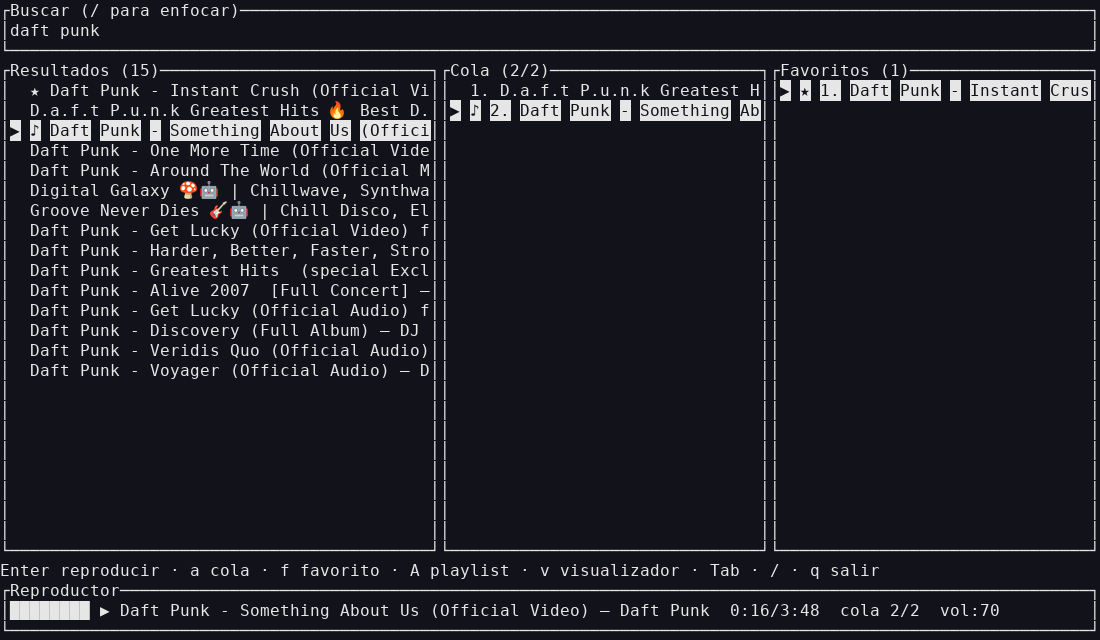
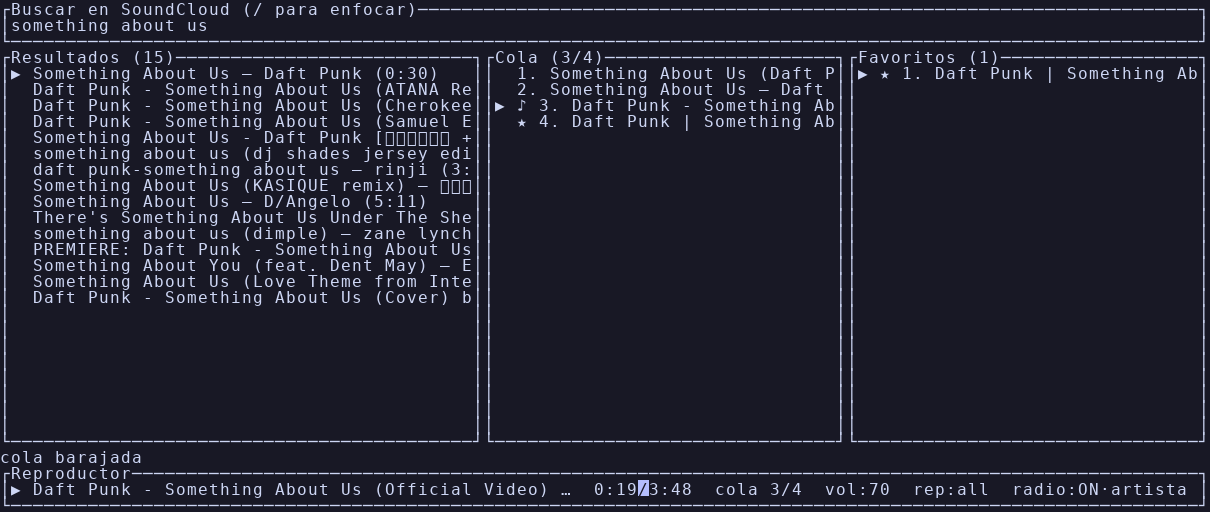
docs: README con ASCII art y demo/screenshot actualizados
- Encabezado con ASCII art (sin emojis), tagline y badge de licencia
- Nueva sección Características con lo destacable (radio con prefetch,
  repetición/seek, playlists, historial, ayuda contextual, caché)
- demo.gif regrabado: reproduce de verdad (progreso en la barra) y
  muestra PgUp/PgDn, repetición, shuffle, ayuda (?) y playlists
- screenshot.png regenerado desde la propia grabación
- record_demo.py: reproduce la primera pista (g+Enter), guarda el
  screenshot y corrige el retorno de foco a Resultados con Esc

Changed region(s): [[0.0, 0.0, 1.0, 1.0]]

diff --git a/scripts/record_demo.py b/scripts/record_demo.py
@@ -210,7 +210,7 @@ def _run_demo():
     hold(stream, screen, renderer, frames, 1.0)
 
     # 2. Type search query
-    type_text(child, stream, screen, renderer, frames, "daft punk", char_delay=0.15)
+    type_text(child, stream, screen, renderer, frames, "something about us", char_delay=0.15)
     hold(stream, screen, renderer, frames, 0.5)
 
     # 3. Press Enter to search
@@ -235,6 +235,13 @@ def _run_demo():
     send_keys(child, stream, screen, renderer, frames, "f", settle=0.8)
     hold(stream, screen, renderer, frames, 0.5)
 
+    # 6.5. Play the first result (g + Enter) — la resolución del stream
+    # tarda unos segundos; la barra muestra el progreso real.
+    send_keys(child, stream, screen, renderer, frames, "g", settle=0.3)
+    send_keys(child, stream, screen, renderer, frames, "\r", settle=1.5)
+    feed_and_capture(child, stream, screen, renderer, frames, 8.0)
+    hold(stream, screen, renderer, frames, 1.5)
+
     # 7. Switch provider to SoundCloud (m)
     send_keys(child, stream, screen, renderer, frames, "m", settle=0.5)
     hold(stream, screen, renderer, frames, 1.2)
@@ -249,6 +256,12 @@ def _run_demo():
     send_keys(child, stream, screen, renderer, frames, "a", settle=0.8)
     hold(stream, screen, renderer, frames, 0.5)
 
+    # 9.5. Page navigation in results (PgDn / PgUp)
+    send_keys(child, stream, screen, renderer, frames, "\x1b[6~", settle=0.5)
+    hold(stream, screen, renderer, frames, 0.6)
+    send_keys(child, stream, screen, renderer, frames, "\x1b[5~", settle=0.5)
+    hold(stream, screen, renderer, frames, 0.6)
+
     # 10. Toggle radio mode (r)
     send_keys(child, stream, screen, renderer, frames, "r", settle=0.5)
     hold(stream, screen, renderer, frames, 1.2)
@@ -261,20 +274,36 @@ def _run_demo():
     send_keys(child, stream, screen, renderer, frames, "\t", settle=0.5)
     hold(stream, screen, renderer, frames, 1.5)
 
-    # 13. Switch back to results (Tab)
-    send_keys(child, stream, screen, renderer, frames, "\t", settle=0.5)
+    # 13. Volver a resultados (Esc desde Favoritos va a Resultados)
+    send_keys(child, stream, screen, renderer, frames, "\x1b", settle=0.5)
     hold(stream, screen, renderer, frames, 0.5)
 
-    # 14. Try to play (Enter) — shows player bar even if mpv fails
-    send_keys(child, stream, screen, renderer, frames, "\r", settle=1.5)
-    feed_and_capture(child, stream, screen, renderer, frames, 3.0)
-    hold(stream, screen, renderer, frames, 2.0)
+    # 14. (La reproducción ya arrancó en el paso 6.5.)
+
+    # 14.5. Cycle repeat mode (l) — the bar shows rep:all
+    send_keys(child, stream, screen, renderer, frames, "l", settle=0.5)
+    hold(stream, screen, renderer, frames, 0.8)
+
+    # 14.6. Shuffle the queue (S)
+    send_keys(child, stream, screen, renderer, frames, "S", settle=0.5)
+    hold(stream, screen, renderer, frames, 0.8)
+
+    # Screenshot: reproduciendo, cola llena, favorito marcado, radio y
+    # repetición visibles en la barra.
+    frames[-1].save("docs/screenshot.png")
+    print("  Screenshot guardado: docs/screenshot.png")
 
     # 15. Volume up a couple times
     send_keys(child, stream, screen, renderer, frames, "+", settle=0.3)
     send_keys(child, stream, screen, renderer, frames, "+", settle=0.3)
     send_keys(child, stream, screen, renderer, frames, "+", settle=0.3)
     hold(stream, screen, renderer, frames, 0.8)
+
+    # 15.5. Open the help overlay (?)
+    send_keys(child, stream, screen, renderer, frames, "?", settle=0.5)
+    hold(stream, screen, renderer, frames, 2.0)
+    send_keys(child, stream, screen, renderer, frames, "\x1b", settle=0.5)
+    hold(stream, screen, renderer, frames, 0.5)
 
     # 16. Open playlists overlay
     send_keys(child, stream, screen, renderer, frames, "P", settle=0.8)

diff --git a/README.md b/README.md
@@ -1,12 +1,32 @@
-# ShellMusic
+```
+ ___ _        _ _ __  __         _
+/ __| |_  ___| | |  \/  |_  _ __(_)__
+\__ \ ' \/ -_) | | |\/| | || (_-< / _|
+|___/_||_\___|_|_|_|  |_|\_,_/__/_\__|
+```
+
+**Toda tu música, sin salir de la terminal.**
 
 [![CI](https://github.com/devFuentesQuijon/ShellMusic/actions/workflows/ci.yml/badge.svg)](https://github.com/devFuentesQuijon/ShellMusic/actions/workflows/ci.yml)
+[![Licencia: MIT](https://img.shields.io/badge/licencia-MIT-blue.svg)](LICENSE)
 
-TUI ultraliviana para buscar y reproducir música de YouTube Music y SoundCloud desde la terminal. Escrita en Rust con ratatui; la reproducción corre a cargo de **mpv** (controlado por JSON IPC) y la búsqueda/resolución de **yt-dlp**.
+TUI ultraliviana para buscar y reproducir música de YouTube Music y SoundCloud. Escrita en Rust con ratatui; la reproducción corre a cargo de **mpv** (controlado por JSON IPC) y la búsqueda/resolución de **yt-dlp**.
 
 ![Demo de ShellMusic](docs/demo.gif)
 
-![ShellMusic](docs/screenshot.png)
+## Características
+
+- **Busca y reproduce** YouTube Music y SoundCloud sin abrir el navegador (`m` cambia de proveedor en caliente).
+- **Cola gestionable**: añade, quita, reordena (`J`/`K`), baraja (`S`) y recorre listas largas por página (`PgUp`/`PgDn`) o al salto (`g`/`G`).
+- **Modo radio** con cinco sub-modos (artista, similares, random, random género, rarezas): la siguiente tanda se busca mientras suena la última pista y entra sin pausa.
+- **Repetición** off / toda la cola / pista actual (`l`) y **seek** de ±5 s o ±30 s (`←`/`→`).
+- **Favoritos y playlists locales** con escritura atómica y recuperación ante archivos corruptos: cero cuentas, cero nube.
+- **Historial de búsquedas** navegable con `↑`/`↓`, como en un shell.
+- **Ayuda contextual** de atajos con `?`.
+- **Caché en memoria** de búsquedas y mitigación del bloqueo anti-bot de YouTube (cookies del navegador solo cuando hacen falta; nunca salen de tu equipo).
+- Binario único para Linux, macOS y Windows.
+
+![ShellMusic reproduciendo](docs/screenshot.png)
 
 ## Instalación
 
